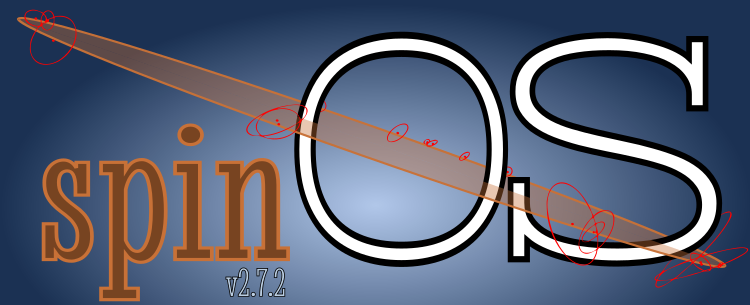
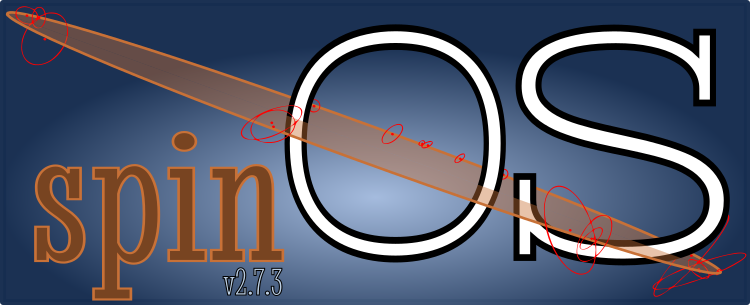
ready for 2.7.3

diff --git a/modules/binary_system.py b/modules/binary_system.py
@@ -1,5 +1,5 @@
 """
-Copyright 2020, 2021 Matthias Fabry
+Copyright 2020, 2021, 2022 Matthias Fabry
 This file is part of spinOS.
 
 spinOS is free software: you can redistribute it and/or modify
@@ -25,18 +25,21 @@ import modules.constants as const
 
 class System:
     """
-    The system class represents a binary system with its respective components. It is assumed that this binary has a
+    The system class represents a binary system with its respective components. It is assumed
+    that this binary has a
     distance to the observer that is way larger than the orbital separation.
     """
     
     def __init__(self, parameters: dict):
         """
-        Creates a System object, defining a binary system with the 11 parameters supplied that fully determine the
+        Creates a System object, defining a binary system with the 11 parameters supplied that
+        fully determine the
         orbits:
                 - e        the eccentricity
                 - i        the inclination (deg)
                 - omega    the longitude of the periastron with respect to the ascending node (deg)
-                - Omega    the longitude of the ascending node of the seconday measured east of north (deg)
+                - Omega    the longitude of the ascending node of the seconday measured east of
+                north (deg)
                 - t0       the time of periastron passage (hjd)
                 - p        the period of the binary (days)
                 - d        the distance to the system(pc)
@@ -59,19 +62,24 @@ class System:
         self.t0 = parameters['t0']
         self.p = parameters['p']  # day
         self.d = parameters['d'] * const.PC2KM  # km
-        self.primary = AbsoluteOrbit(self, abs(parameters['k1']), parameters['omega'] - 180, parameters['gamma1'])
-        self.secondary = AbsoluteOrbit(self, abs(parameters['k2']), parameters['omega'], parameters['gamma2'])
-        self.ap_kk = (self.p * const.DAY2SEC) * (abs(parameters['k1']) + abs(parameters['k2'])) * np.sqrt(
+        self.primary = AbsoluteOrbit(self, abs(parameters['k1']), parameters['omega'] - 180,
+                                     parameters['gamma1'])
+        self.secondary = AbsoluteOrbit(self, abs(parameters['k2']), parameters['omega'],
+                                       parameters['gamma2'])
+        self.ap_kk = (self.p * const.DAY2SEC) * (
+                    abs(parameters['k1']) + abs(parameters['k2'])) * np.sqrt(
             1 - self.e ** 2) / (2 * np.pi * self.sini)
         self.mt = parameters['mt']
         self.ap_mt = np.cbrt(
-            parameters['mt'] * const.MSUN * const.G * (self.p * const.DAY2SEC) ** 2 / (4 * np.pi ** 2))
-        self.relative = RelativeOrbit(self, self.ap_mt / self.d * const.RAD2MAS, parameters['omega'])
+            parameters['mt'] * const.MSUN * const.G * (self.p * const.DAY2SEC) ** 2 / (
+                        4 * np.pi ** 2))
+        self.relative = RelativeOrbit(self, self.ap_mt / self.d * const.RAD2MAS,
+                                      parameters['omega'])
     
     def extend_rvs_until_time(self, times, rvs, maxtime):
         out = np.copy(times)
         n = (maxtime - times[0]) // self.p
-        for i in range(n+1):
+        for i in range(n + 1):
             times += self.p
             out = np.concatenate((out, times))
         rvs = np.tile(rvs, n + 1)
@@ -86,7 +94,8 @@ class System:
     
     def semimajor_axis_from_distance(self):
         """
-        Calculates the physical semi-major axis of the relative orbit from the distance and apparent size.
+        Calculates the physical semi-major axis of the relative orbit from the distance and
+        apparent size.
         :return: semi-major axis (AU)
         """
         return self.ap_mt / const.AU2KM
@@ -97,7 +106,8 @@ class System:
         :return: mass of the primary (Solar Mass)
         """
         return np.power(1 - self.e ** 2, 1.5) * (
-                self.primary.k + self.secondary.k) ** 2 * self.secondary.k * (self.p * const.DAY2SEC) / (
+                self.primary.k + self.secondary.k) ** 2 * self.secondary.k * (
+                           self.p * const.DAY2SEC) / (
                        2 * np.pi * const.G * self.sini ** 3) / const.MSUN
     
     def secondary_mass(self):
@@ -106,7 +116,8 @@ class System:
         :return: mass of the secondary (in Solar Mass)
         """
         return np.power(1 - self.e ** 2, 1.5) * (
-                self.primary.k + self.secondary.k) ** 2 * self.primary.k * (self.p * const.DAY2SEC) / (
+                self.primary.k + self.secondary.k) ** 2 * self.primary.k * (
+                           self.p * const.DAY2SEC) / (
                        2 * np.pi * const.G * self.sini ** 3) / const.MSUN
     
     def total_mass(self):
@@ -160,7 +171,8 @@ class System:
     
     def ecc_anom_of_phase(self, phase):
         """
-        Calculates the eccentric anomaly given a phase. This function is the hardest function to resolve as it requires
+        Calculates the eccentric anomaly given a phase. This function is the hardest function to
+        resolve as it requires
         solving a transcendental equation: Kepler's Equation.
         :param phase: phase (rad)
         :return: eccentric anomaly (rad)
@@ -177,7 +189,8 @@ class System:
             # build a function object that should be zero for a certain eccentric anomaly
             def kepler(ecc_an):
                 """
-                defines keplers equation in function of an eccentric anomaly and phase, if zero, the given eccentric
+                defines keplers equation in function of an eccentric anomaly and phase, if zero,
+                the given eccentric
                 anomaly corresponds to the phase ph of this orbit
                 :param ecc_an: eccentric anomaly
                 :return: float
@@ -186,19 +199,23 @@ class System:
             
             return kepler
         
-        # find the root of keplers_eq(phase), which by construction returns a function for which the eccentric anomaly
+        # find the root of keplers_eq(phase), which by construction returns a function for which
+        # the eccentric anomaly
         # is the independent variable.
-        # current root finding algorithm is toms748, as it has the best convergence (2.7 bits per function evaluation)
+        # current root finding algorithm is toms748, as it has the best convergence (2.7 bits per
+        # function evaluation)
         phase = np.remainder(phase, 1)
         return spopt.root_scalar(keplers_eq(phase), method='toms748', bracket=(0, 2 * np.pi)).root
     
     def create_phase_extended_RV(self, rvdata, extension_range):
         """
-        Creates a new RV dataset, where the phase folding of the data is extended outside of the (0, 1) interval by a
+        Creates a new RV dataset, where the phase folding of the data is extended outside of the
+        (0, 1) interval by a
         given amount
         :param rvdata: an ndarray containing the hjds, RV measurements and errors
         :param extension_range: the phase amount to extend the folding with.
-        :return: same dataset as supplied, only folded to phases (-extension_range, 1+extension_range)
+        :return: same dataset as supplied, only folded to phases (-extension_range,
+        1+extension_range)
         """
         phases = self.phase_of_hjds(rvdata[:, 0])
         data = rvdata[:, 1]
@@ -217,8 +234,10 @@ class System:
 
 class Orbit:
     """
-    Creates a general orbit object, storing all the orbital elemements as well as its period and systemic velocity.
-    Within binary orbital solution finding however, use the subclasses instead to differenciate the absolute and
+    Creates a general orbit object, storing all the orbital elemements as well as its period and
+    systemic velocity.
+    Within binary orbital solution finding however, use the subclasses instead to differenciate
+    the absolute and
     the relative orbits.
 
     The motion of a star in a (Newtonian) binary is completely determined by the quantities:
@@ -230,7 +249,8 @@ class Orbit:
         -) k (km/s), the semiamplitude of the observed radial velocity curve
         -) p (day), the period of the orbit
         -) gamma (km/s), the systemic velocity of the binary pair
-        -) d (pc), the distance to the focus of the orbit (assumed way larger than the dimensions of the orbit)
+        -) d (pc), the distance to the focus of the orbit (assumed way larger than the dimensions
+        of the orbit)
 
     An inherits directly the quantities e, i, Omega, t0, p, d from the system it resides in.
     """
@@ -244,13 +264,15 @@ class Orbit:
 
 class AbsoluteOrbit(Orbit):
     """
-    An absolute orbit represents an orbit of the either of the component masses separately. It are these orbits that
+    An absolute orbit represents an orbit of the either of the component masses separately. It
+    are these orbits that
     determine the observed RV measurements
     """
     
     def __init__(self, system, k, omega, gamma):
         """
-        An absolute orbit of a component body is an orbit with the systemic parameters as well as k, omega, gamma.
+        An absolute orbit of a component body is an orbit with the systemic parameters as well as
+        k, omega, gamma.
         :param system: system the component belongs to
         :param k: semiamplitude of its RV curve
         :param omega: its argument of periastron
@@ -264,9 +286,11 @@ class AbsoluteOrbit(Orbit):
         """
         Calculates the radial velocities of a component body given a list of phases
         :param phase: phase (rads) (cannot be an iterable)
-        :param getAngles: Boolean (default=False) indicating to additionally return the corresponding true and eccentric
+        :param getAngles: Boolean (default=False) indicating to additionally return the
+        corresponding true and eccentric
             anomalies
-        :return: list of radial velocities (km/s) [optionally: list of true anomalies (rad) and list of eccentric
+        :return: list of radial velocities (km/s) [optionally: list of true anomalies (rad) and
+        list of eccentric
             anomalies (rad)]
         """
         E = self.system.ecc_anom_of_phase(phase)
@@ -276,9 +300,11 @@ class AbsoluteOrbit(Orbit):
         """
         Calculates the radial velocities of a component body given a list of phases
         :param phases: list of phases (rads) (must be an iterable)
-        :param getAngles: Boolean (default=False) indicating to additionally return the corresponding true and eccentric
+        :param getAngles: Boolean (default=False) indicating to additionally return the
+        corresponding true and eccentric
             anomalies
-        :return: list of radial velocities (km/s) [optionally: list of true anomalies (rad) and list of eccentric
+        :return: list of radial velocities (km/s) [optionally: list of true anomalies (rad) and
+        list of eccentric
             anomalies (rad)]
         """
         Es = np.zeros(phases.size)
@@ -290,7 +316,8 @@ class AbsoluteOrbit(Orbit):
         """
         Calculates the radial velocity of a component body given an eccentric anomaly
         :param ecc_anom: eccentric anomaly (rad)
-        :param getAngles: Boolean (default=False) indicating to additionally return the eccentric anomaly
+        :param getAngles: Boolean (default=False) indicating to additionally return the eccentric
+        anomaly
         :return: radial velocity (km/s) [optionally: eccentric anomaly (rad)]
         """
         if getAngles:
@@ -306,7 +333,8 @@ class AbsoluteOrbit(Orbit):
         :return: radial velocity (km/s) [optionally: true anomaly (rad)]
         """
         if getAngles:
-            return self.k * (np.cos(theta + self.omega) + self.system.e * self.coso) + self.gamma, theta
+            return self.k * (
+                        np.cos(theta + self.omega) + self.system.e * self.coso) + self.gamma, theta
         return self.k * (np.cos(theta + self.omega) + self.system.e * self.coso) + self.gamma
     
     def radial_velocity_of_hjds(self, hjds, getAngles: bool = False):
@@ -321,7 +349,8 @@ class AbsoluteOrbit(Orbit):
 
 class RelativeOrbit(Orbit):
     """
-    A Relative orbit represents the relative orbit of the secondary with respect to the primary. It is this orbit that
+    A Relative orbit represents the relative orbit of the secondary with respect to the primary.
+    It is this orbit that
     determine the observed AS measurements
     """
     

diff --git a/modules/utils.py b/modules/utils.py
@@ -1,5 +1,5 @@
 """
-Copyright 2020, 2021 Matthias Fabry
+Copyright 2020, 2021, 2022 Matthias Fabry
 This file is part of spinOS.
 
 spinOS is free software: you can redistribute it and/or modify
@@ -52,6 +52,7 @@ class VerticalScrolledFrame:
         # mouse scroll does not seem to work with just "bind"; You have
         # to use "bind_all". Therefore to use multiple windows you have
         # to bind_all in the current widget
+        # works for me tho
         self.canvas.bind("<Configure>", self._on_canvas_configure)
         self.canvas.bind("<Enter>", self._bind_mouse)
         self.canvas.bind("<Leave>", self._unbind_mouse)
@@ -59,7 +60,8 @@ class VerticalScrolledFrame:
         
         self.inner = ttk.Frame(self.canvas, bg=bg)
         # pack the inner Frame into the Canvas with the topleft corner 4 pixels offset
-        self.canvas_window = self.canvas.create_window((4, 4), window=self.inner, anchor='nw', tags='self.inner')
+        self.canvas_window = self.canvas.create_window((4, 4), window=self.inner, anchor='nw',
+                                                       tags='self.inner')
         self.inner.bind("<Configure>", self._on_frame_configure)
         
         self.outer_attr = set(dir(tk.Widget))

diff --git a/modules/constants.py b/modules/constants.py
@@ -1,5 +1,5 @@
 """
-Copyright 2020, 2021 Matthias Fabry
+Copyright 2020, 2021, 2022 Matthias Fabry
 This file is part of spinOS.
 
 spinOS is free software: you can redistribute it and/or modify
@@ -47,4 +47,4 @@ RV1COLORS = ['mediumblue', 'indigo', 'fuchsia', 'midnightblue']
 RV2COLORS = ['indianred', 'maroon', 'orangered', 'goldenrod']
 ASCOLORS = ['darkred', 'green', 'navy', 'mediumvioletred']
 ASDISTCOLORS = ['lightcoral', 'limegreen', 'slateblue', 'orchid']
-VERSION = "2.7.2"
+VERSION = "2.7.3"

diff --git a/modules/dataManager.py b/modules/dataManager.py
@@ -204,7 +204,7 @@ class DataSet(ABC):
         self.book.add(newset, text=self.name)
         self.id = len(book.tabs()) - 1
         self.entries = []
-        # TODO: I add line objects to the plotter but don't bind them to these dataset objects, makes deletion hard
+        # I add line objects to the plotter but don't bind them to these dataset objects, makes deletion hard
         if self.tpe == 'RV1':
             self.gui.plotter.rv1data_lines.append(None)
         elif self.tpe == 'RV2':

diff --git a/README.md b/README.md
@@ -2,7 +2,7 @@
 
 [![GitHub license](https://img.shields.io/github/license/matthiasfabry/spinOS)](https://github.com/matthiasfabry/spinOS/blob/master/COPYING.txt)
 [![Other](https://img.shields.io/badge/ASCL-2102.001-blue)](https://ascl.net/2102.001)
-![Github version](https://img.shields.io/badge/version-v2.7.2-red)
+![Github version](https://img.shields.io/badge/version-v2.7.3-red)
 
 ## Goal:
 
@@ -118,13 +118,14 @@ All eleven parameters should be guessed if you load in guesses. (for their meani
 
 ## Dependencies:
 
-    python 3.9.5
-    numpy 1.21.2
-    scipy 1.7.1
+    python 3.9.7
+    tk 8.6.11
+    numpy 1.22.0
+    scipy 1.7.3
     lmfit 1.0.3
-    matplotlib 3.4.3
+    matplotlib 3.5.1
     emcee 3.1.1 (if MCMC error calculation is performed)
-    corner 2.2.1 (if MCMC corner diagram is plotted)
+    corner 2.1.0 (if MCMC corner diagram is plotted)
     A LaTeX distribution that allows matplotlib.rc(usetex=True)
 
 ## Author:
